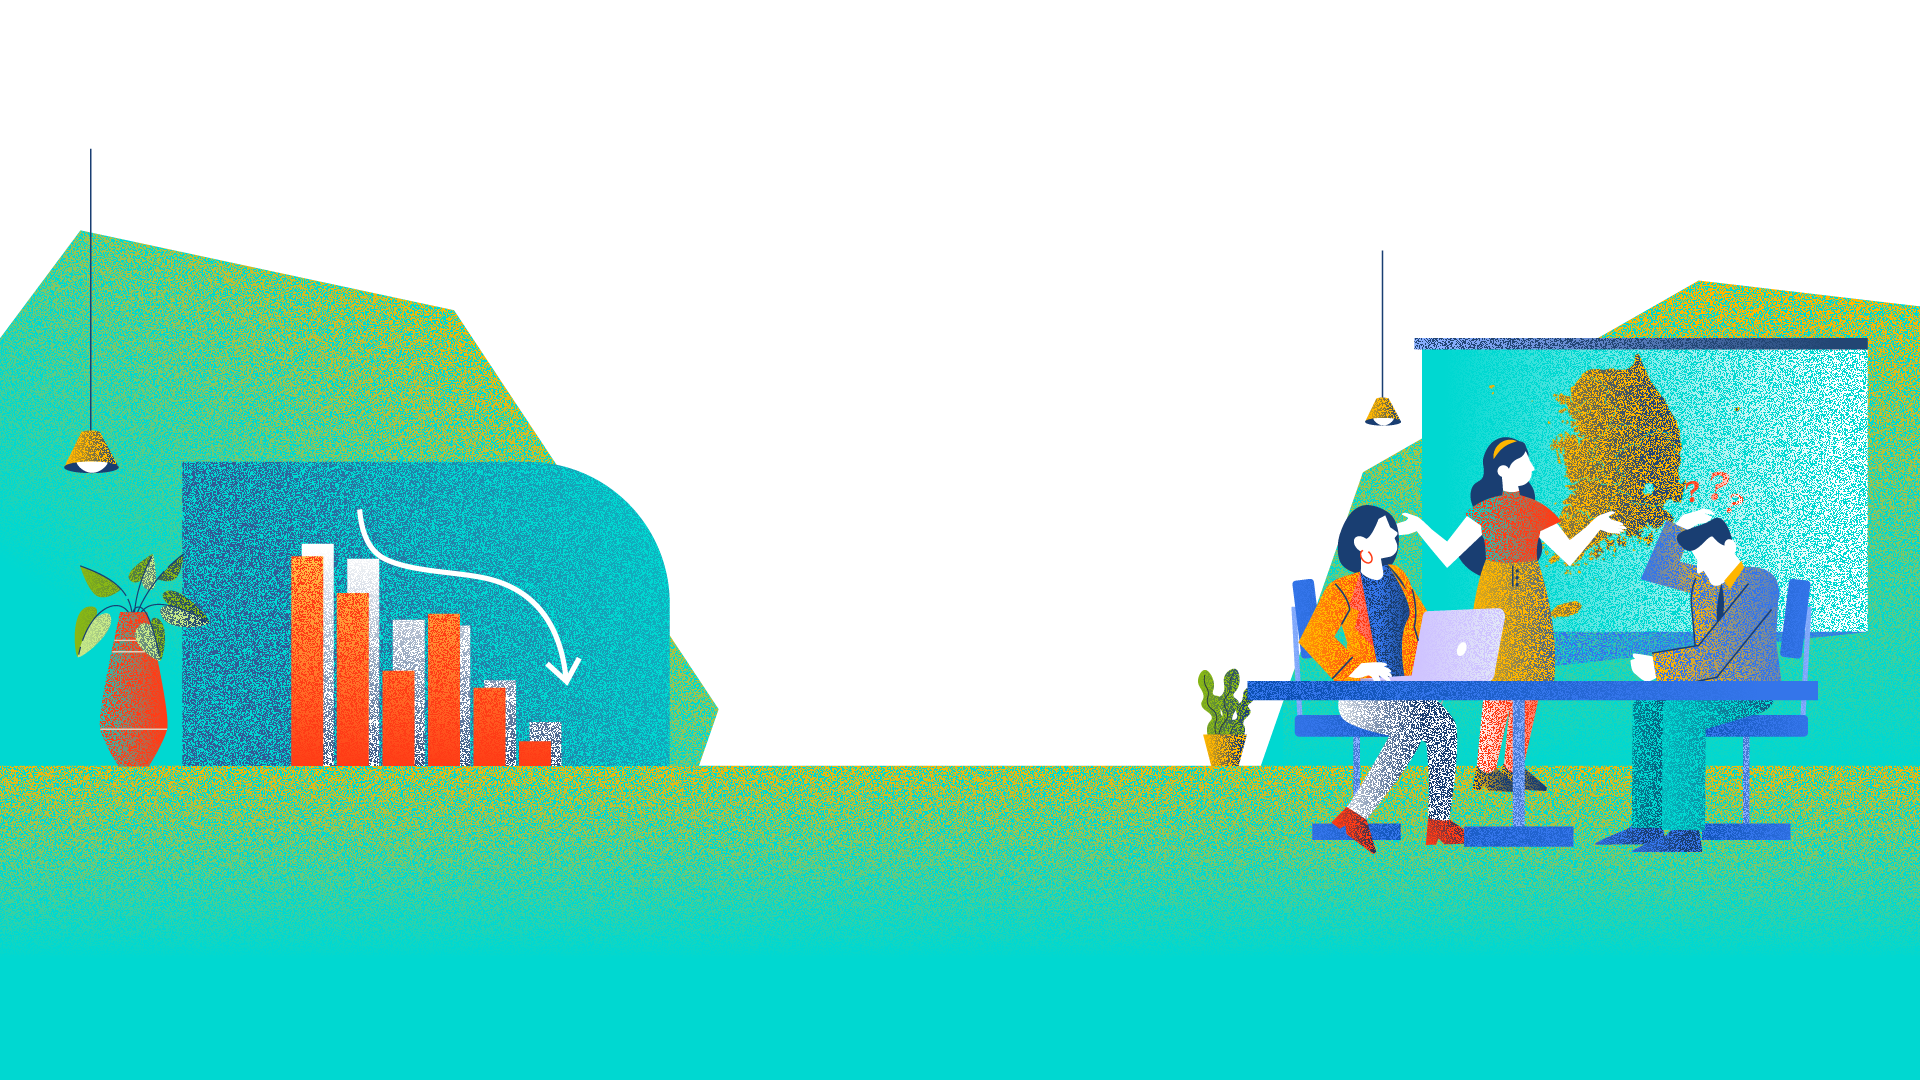
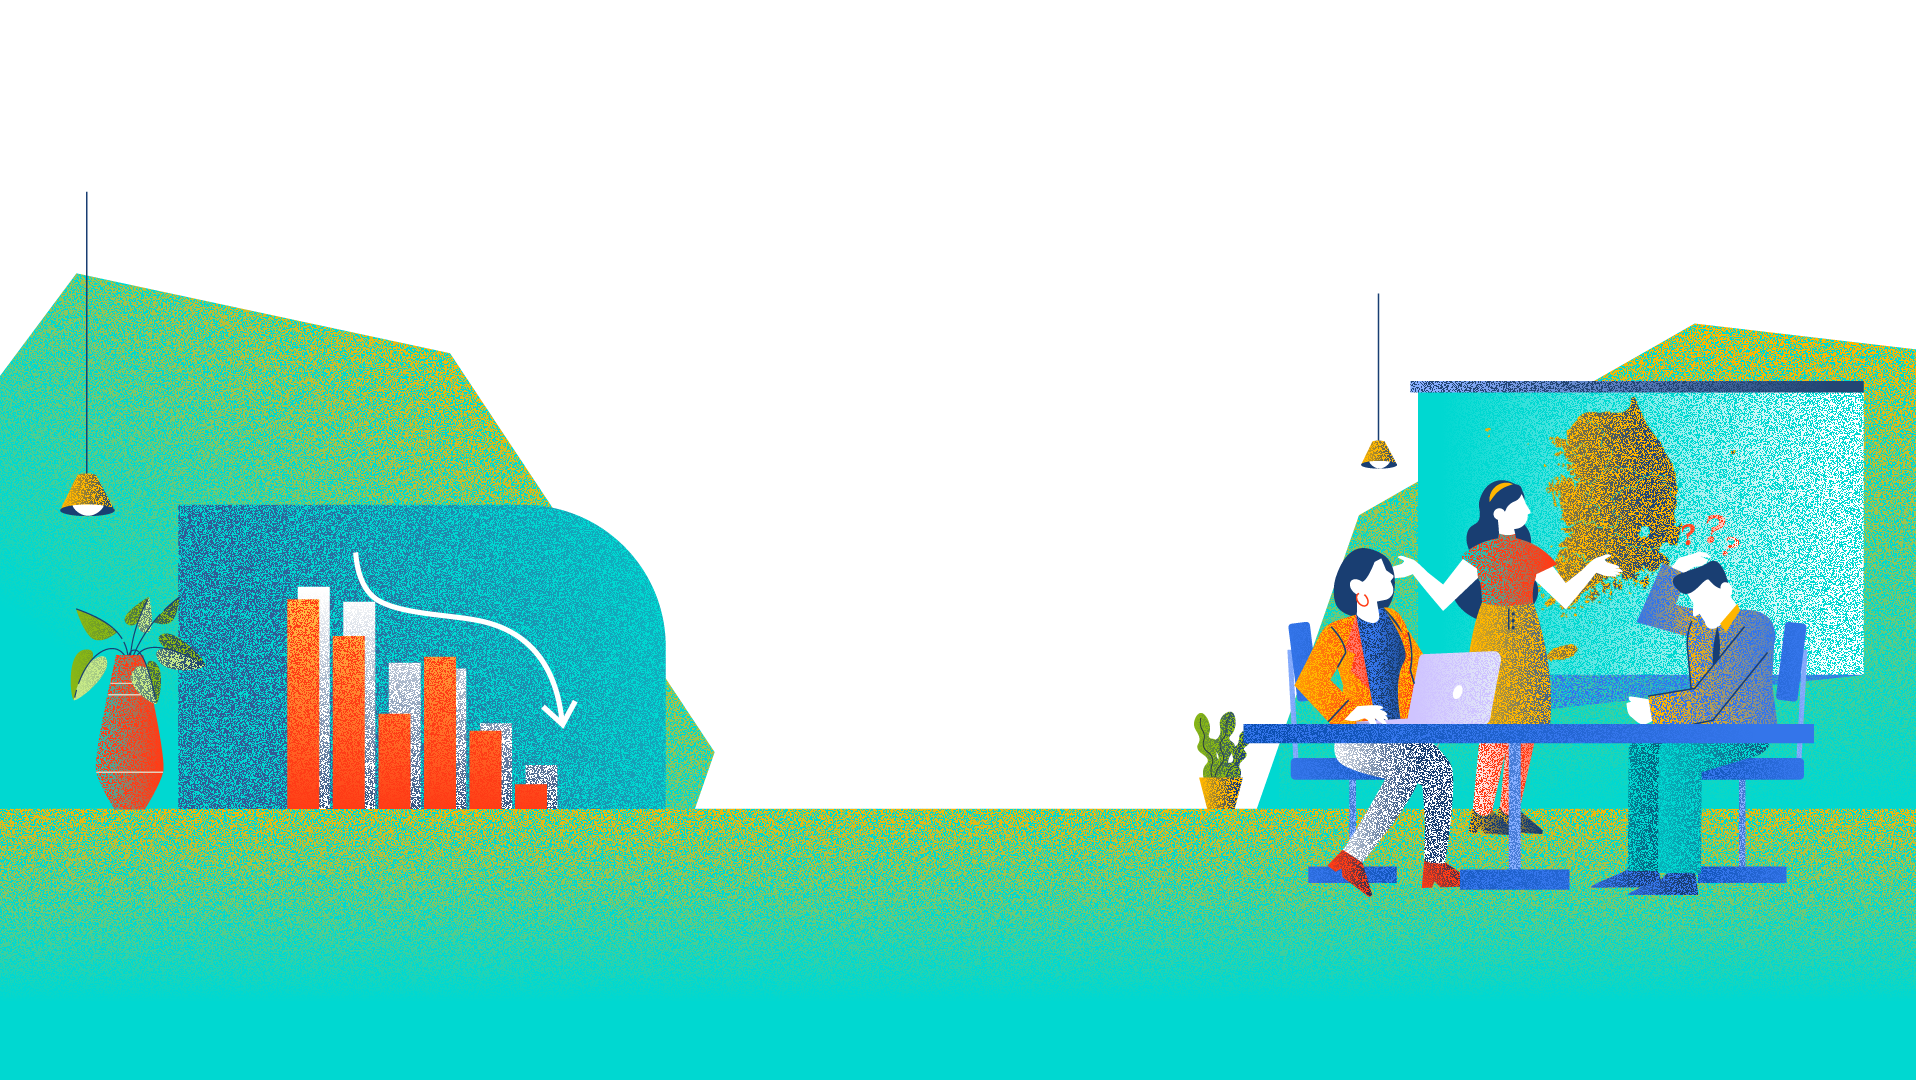
simple animation for landing page

diff --git a/script.js b/script.js
@@ -9,6 +9,194 @@ const shareText = {
   es: "Por favor, comparte el juego con...",
 };
 
+// Function to create rotating background with smooth transitions
+function setupRotatingBackground() {
+    // Create container for background halves
+    const bgContainer = document.createElement('div');
+    bgContainer.id = 'rotating-background';
+    bgContainer.style.cssText = `
+        position: fixed;
+        top: 0;
+        left: 0;
+        width: 100%;
+        height: 100%;
+        z-index: -1;
+        display: flex;
+    `;
+    
+    // Create left half container
+    const leftHalf = document.createElement('div');
+    leftHalf.id = 'bg-left';
+    leftHalf.style.cssText = `
+        width: 50%;
+        height: 100%;
+        background-image: url('images/split/illustration1-0.png');
+        background-size: cover;
+        background-position: right center;
+        transition: opacity 2s ease;
+    `;
+    
+    // Create right half container
+    const rightHalf = document.createElement('div');
+    rightHalf.id = 'bg-right';
+    rightHalf.style.cssText = `
+        width: 50%;
+        height: 100%;
+        background-image: url('images/split/illustration1-1.png');
+        background-size: cover;
+        background-position: left center;
+        transition: opacity 2s ease;
+    `;
+    
+    // Add to container
+    bgContainer.appendChild(leftHalf);
+    bgContainer.appendChild(rightHalf);
+    document.body.insertBefore(bgContainer, document.body.firstChild);
+    
+    // Preload images in custom order: illustration1, illustration3, illustration2
+    const leftSideImages = [
+        'images/split/illustration1-0.png',
+        'images/split/illustration3-0.png',
+        'images/split/illustration2-0.png'
+    ];
+    
+    const rightSideImages = [
+        'images/split/illustration1-1.png',
+        'images/split/illustration3-1.png',
+        'images/split/illustration2-1.png'
+    ];
+    
+    // Preload images
+    function preloadImages(imageArray) {
+        imageArray.forEach(src => {
+            const img = new Image();
+            img.src = src;
+        });
+    }
+    
+    preloadImages(leftSideImages);
+    preloadImages(rightSideImages);
+    
+    // Set up rotation
+    let currentLeftIndex = 0; // Starting with illustration1 (index 0)
+    let currentRightIndex = 0; // Starting with illustration1 (index 0)
+    
+    function rotateBackground() {
+        // Determine the next index for both halves
+        const nextLeftIndex = (currentLeftIndex + 1) % leftSideImages.length;
+        const nextRightIndex = (currentRightIndex + 1) % rightSideImages.length;
+        
+        // Left side transition
+        transitionHalfBackground(leftHalf, leftSideImages[currentLeftIndex], leftSideImages[nextLeftIndex], 'left');
+        
+        // Update current index for next rotation
+        currentLeftIndex = nextLeftIndex;
+        
+        // Change right side after 5 seconds
+        setTimeout(() => {
+            // Right side transition
+            transitionHalfBackground(rightHalf, rightSideImages[currentRightIndex], rightSideImages[nextRightIndex], 'right');
+            
+            // Update current index for next rotation
+            currentRightIndex = nextRightIndex;
+        }, 5000);
+    }
+    
+    // Helper function to handle the transition between images
+    function transitionHalfBackground(container, oldImageSrc, newImageSrc, side) {
+        // Clear any existing background from container itself
+        container.style.backgroundColor = 'transparent';
+        container.style.backgroundImage = 'none';
+        
+        // Create a background container that will hold both images
+        const transitionContainer = document.createElement('div');
+        transitionContainer.style.cssText = `
+            position: absolute;
+            top: 0;
+            ${side === 'left' ? 'left: 0;' : 'right: 0;'}
+            width: 50%;
+            height: 100%;
+            overflow: hidden;
+        `;
+        
+        // Create solid background color layer (prevents any background from showing through)
+        const backgroundLayer = document.createElement('div');
+        backgroundLayer.style.cssText = `
+            position: absolute;
+            top: 0;
+            left: 0;
+            width: 100%;
+            height: 100%;
+            background-color: #F6F4F0;
+            z-index: 0;
+        `;
+        
+        // Create overlay with current (old) image
+        const oldImageOverlay = document.createElement('div');
+        oldImageOverlay.style.cssText = `
+            position: absolute;
+            top: 0;
+            left: 0;
+            width: 100%;
+            height: 100%;
+            background-image: url('${oldImageSrc}');
+            background-size: cover;
+            background-position: ${side === 'left' ? 'right' : 'left'} center;
+            opacity: 1;
+            transition: opacity 3s ease;
+            z-index: 1;
+        `;
+        
+        // Create overlay with new image
+        const newImageOverlay = document.createElement('div');
+        newImageOverlay.style.cssText = `
+            position: absolute;
+            top: 0;
+            left: 0;
+            width: 100%;
+            height: 100%;
+            background-image: url('${newImageSrc}');
+            background-size: cover;
+            background-position: ${side === 'left' ? 'right' : 'left'} center;
+            opacity: 0;
+            transition: opacity 3s ease;
+            z-index: 2;
+        `;
+        
+        // Build the transition container
+        transitionContainer.appendChild(backgroundLayer);
+        transitionContainer.appendChild(oldImageOverlay);
+        transitionContainer.appendChild(newImageOverlay);
+        
+        // Add transition container to main container
+        container.innerHTML = ''; // Clear any previous content
+        container.appendChild(transitionContainer);
+        
+        // Trigger fade in/out after a short delay to ensure DOM is updated
+        setTimeout(() => {
+            newImageOverlay.style.opacity = '1';
+            oldImageOverlay.style.opacity = '0';
+        }, 50);
+        
+        // Clean up after transition completes (increased timeout to match longer transition)
+        setTimeout(() => {
+            // Set the container's background to the new image
+            container.style.backgroundImage = `url('${newImageSrc}')`;
+            container.style.backgroundSize = 'cover';
+            container.style.backgroundPosition = `${side === 'left' ? 'right' : 'left'} center`;
+            // Remove the transition container
+            container.removeChild(transitionContainer);
+        }, 3150);
+    }
+    
+    // Returning the rotate function for initial call and
+    // starting the interval for subsequent rotations (every 10 seconds)
+    setInterval(rotateBackground, 10000);
+    
+    // Return the function so it can be called directly
+    return rotateBackground;
+}
+
 // Function to change language
 function changeLanguage(language) {
   currentLanguage = language;
@@ -450,14 +638,7 @@ function displayGameOver() {
     document.getElementById("languageSelector").style.display = "block";
     document.getElementById("scores").style.display = "none";
 
-    // Set home page background image
-    if (window.matchMedia("(max-width: 768px)").matches) {
-      document.getElementById("gameContainer").style.backgroundImage =
-        "url('images/info-lead-illustration2-mob-v1.png')";
-    } else {
-      document.body.style.backgroundImage =
-        "url('images/info-lead-illustration2-web-v1.png')";
-    }
+    // Background is now managed by setupRotatingBackground() function
 
     // Reload data and update UI
     loadGameData();
@@ -714,6 +895,14 @@ document.getElementById("languageDropdownButton").onclick = () => {
   dropdownMenu.style.display =
     dropdownMenu.style.display === "block" ? "none" : "block";
 };
+
+// Initialize background rotation on load and start transitions after 2 seconds
+window.addEventListener('load', function() {
+    const rotateFunction = setupRotatingBackground();
+    
+    // Start the first transition after 2 seconds
+    setTimeout(rotateFunction, 2000);
+});
 
 updateInitialMessage();
 updateScoresText();

diff --git a/style.css b/style.css
@@ -10,7 +10,7 @@ body {
   display: flex;
   justify-content: center;
   align-items: center;
-  background-image: url("images/info-lead-illustration2-web-v1.png");
+  /* Background is now managed by JavaScript */
 }
 #homeContainer {
   position: absolute;
